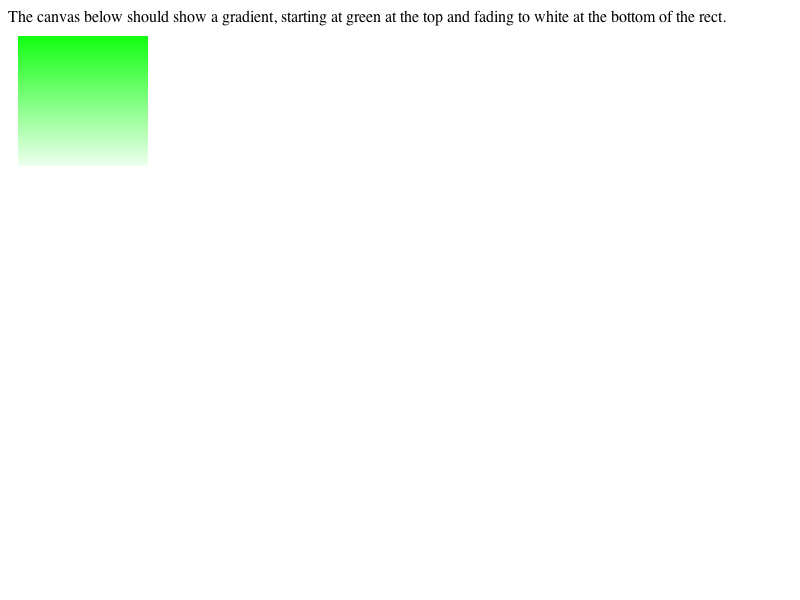
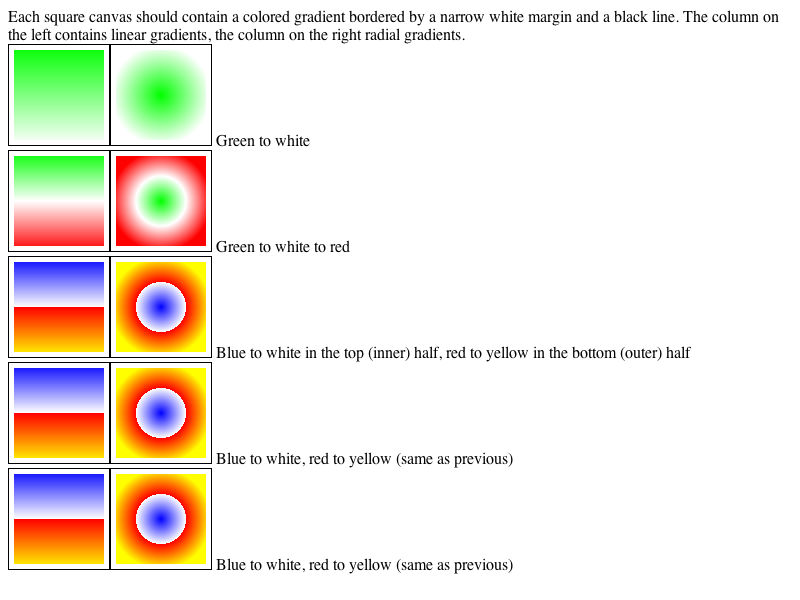
2007-07-01  Pamela Greene  <pamg.bugs@gmail.com>
Reviewed by Darin.

        Fix for <http://bugs.webkit.org/show_bug.cgi?id=14320>
        Bug 14320: <canvas> gradient stops at identical offsets are applied in the wrong order
        <rdar://problem/5290084>

        Use std::stable_sort() instead of qsort() to sort gradient stops.
        Adjust the comparison function accordingly.

        * html/CanvasGradient.cpp:
        (WebCore::compareStops):
        (WebCore::CanvasGradient::findStop):

2007-07-01  Pamela Greene  <pamg.bugs@gmail.com>

        Reviewed by Darin.

        Tests for <http://bugs.webkit.org/show_bug.cgi?id=14320>
        Bug 14320: <canvas> gradient stops at identical offsets are applied in the wrong order
        <rdar://problem/5290084>

        Add tests for various combinations of stops, including multiple stops at
        the same offsets, sorted and unsorted.  Update results accordingly.

        * fast/canvas/fillrect_gradient-expected.checksum:
        * fast/canvas/fillrect_gradient-expected.png:
        * fast/canvas/fillrect_gradient-expected.txt:
        * fast/canvas/fillrect_gradient.html:

Identifier: 18672@main
git-svn-id: https://svn.webkit.org/repository/webkit/trunk@23912 268f45cc-cd09-0410-ab3c-d52691b4dbfc

Changed region(s): [[0.0, 0.0, 0.9688, 0.96]]

diff --git a/LayoutTests/fast/canvas/fillrect_gradient.html b/LayoutTests/fast/canvas/fillrect_gradient.html
@@ -1,18 +1,84 @@
 <body>
-The canvas below should show a gradient, starting at green at the top and fading to white at the bottom of the rect.
-<canvas id="canvas" width="150" height="150"></canvas>
+<style type="text/css">
+canvas { border: 1px solid black; }
+</style>
+
+Each square canvas should contain a colored gradient bordered by a narrow white margin and a black line.
+The column on the left contains linear gradients, the column on the right radial gradients.<br>
+
 <script>
-    var ctx = document.getElementById('canvas').getContext('2d');
-
-    // Create gradient
-    var lingrad = ctx.createLinearGradient(0,0,0,150);
-    lingrad.addColorStop(0, '#0f0');
-    lingrad.addColorStop(1, '#fff');
-
-    // assign gradient to fill
-    ctx.fillStyle = lingrad;
+    var counter = 1;
+    function Test(description, gradient) {
+        // Create canvas elements
+        var lin = document.createElement('canvas');
+        lin.setAttribute('id', 'canvas' + counter + 'lin');
+        lin.setAttribute('height', 100);
+        lin.setAttribute('width', 100);
+        var rad = document.createElement('canvas');
+        rad.setAttribute('id', 'canvas' + counter + 'rad');
+        rad.setAttribute('height', 100);
+        rad.setAttribute('width', 100);
         
-    // draw shapes
-    ctx.fillRect(10,10,130,130);
+        document.body.appendChild(lin);
+        document.body.appendChild(rad);
+        document.body.appendChild(document.createTextNode(' ' + description));
+        document.body.appendChild(document.createElement('br'));
+
+        // Find canvas contexts
+        var linctx = lin.getContext('2d')
+        var radctx = rad.getContext('2d')
+
+        // Create linear and radial gradients from array
+        var lingrad = linctx.createLinearGradient(0, 0, 0, 100);
+        var radgrad = linctx.createRadialGradient(50, 50, 0, 50, 50, 50);
+        for (var i = 0; i < gradient.length - 1; i+=2) {
+            lingrad.addColorStop(gradient[i], gradient[i + 1]);
+            radgrad.addColorStop(gradient[i], gradient[i + 1]);
+        }
+
+        // Apply them
+        linctx.fillStyle = lingrad;
+        linctx.fillRect(5, 5, 90, 90);
+        radctx.fillStyle = radgrad;
+        radctx.fillRect(5, 5, 90, 90);
+
+        counter++;
+    }
+
+    // Simple gradient
+    Test('Green to white',
+         new Array(0, '#0f0',
+                   1, '#fff'));
+
+    // Multiple sections
+    Test('Green to white to red',
+         new Array(  0, '#0f0',
+                   0.5, '#fff',
+                   1,   '#f00'));
+
+    // Disjoint gradients (multiple stops at the same offset)
+    Test('Blue to white in the top (inner) half, red to yellow in the bottom (outer) half',
+         new Array(  0, '#00f',
+                   0.5, '#fff',
+                   0.5, '#f00',
+                   1,   '#ff0'));
+
+    // Ignored stops
+    Test('Blue to white, red to yellow (same as previous)',
+         new Array(0,   '#00f',
+                   0.5, '#fff',
+                   0.5, '#aaa',
+                   0.5, '#abc',
+                   0.5, '#f00',
+                   1,   '#ff0'));
+
+    // Unsorted stops
+    Test('Blue to white, red to yellow (same as previous)',
+         new Array(0.5, '#fff',
+                   0.5, '#aaa',
+                   1,   '#ff0',
+                   0.5, '#abc',
+                   0.5, '#f00',
+                   0,   '#00f'));
 </script>
 </body>

diff --git a/WebCore/html/CanvasGradient.cpp b/WebCore/html/CanvasGradient.cpp
@@ -149,16 +149,9 @@ void CanvasGradient::getColor(float value, float* r, float* g, float* b, float* 
     *a = lastStop.alpha + (nextStop.alpha - lastStop.alpha) * stopFraction;
 }
 
-static int compareStops(const void* a, const void* b)
+static inline bool compareStops(const CanvasGradient::ColorStop &a, const CanvasGradient::ColorStop &b)
 {
-    float as = static_cast<const CanvasGradient::ColorStop*>(a)->stop;
-    float bs = static_cast<const CanvasGradient::ColorStop*>(b)->stop;
-
-    if (as > bs)
-        return 1;
-    if (as < bs)
-        return -1;
-    return 0;
+    return a.stop < b.stop;
 }
 
 int CanvasGradient::findStop(float value) const
@@ -167,7 +160,7 @@ int CanvasGradient::findStop(float value) const
         bool addZeroStop = true;
         bool addOneStop = true;
         if (m_stops.size()) {
-            qsort(m_stops.data(), m_stops.size(), sizeof(ColorStop), compareStops);
+            std::stable_sort(m_stops.begin(), m_stops.end(), compareStops);
             addZeroStop = m_stops.first().stop != 0;
             addOneStop = m_stops.last().stop != 1;
         }
